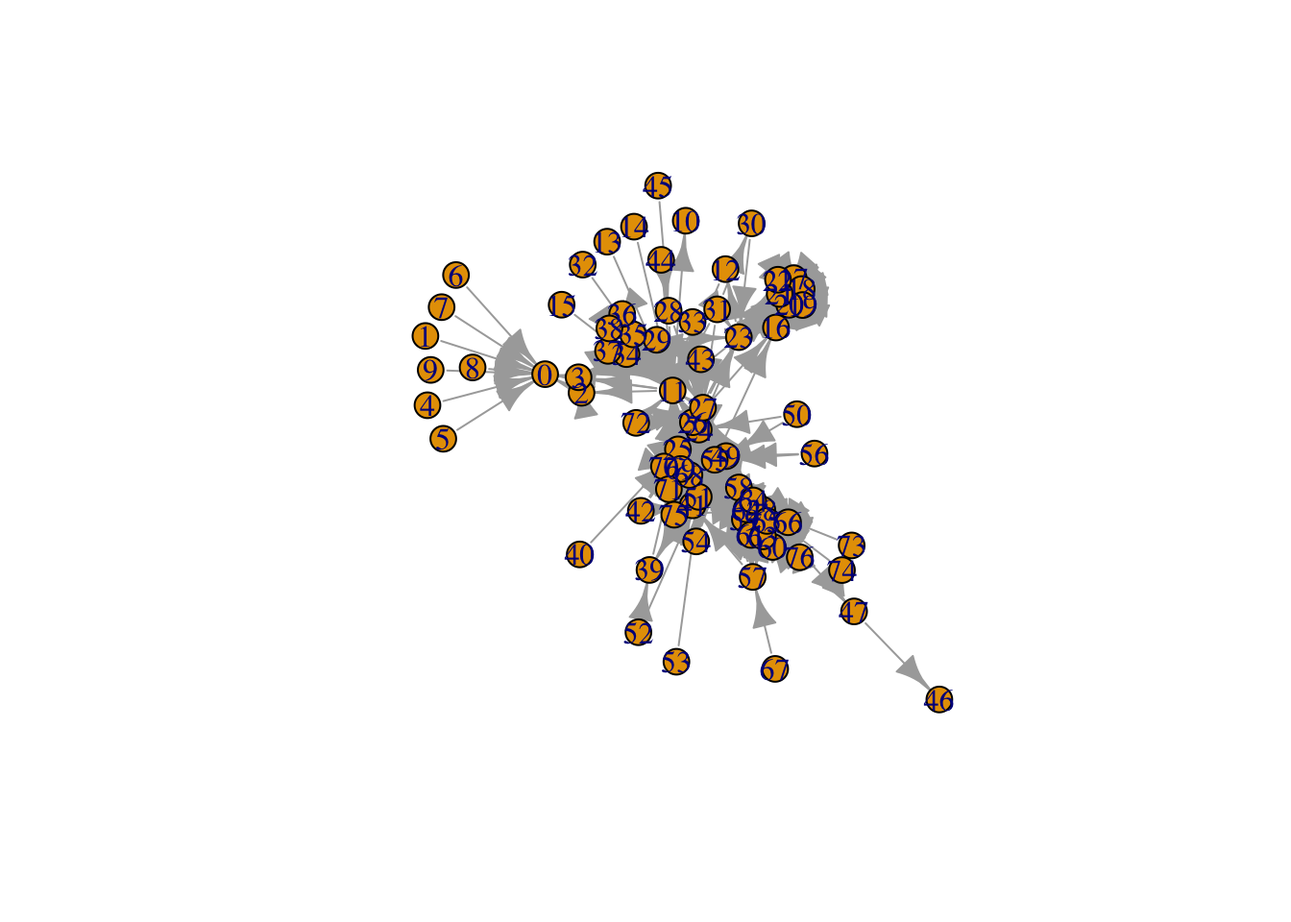
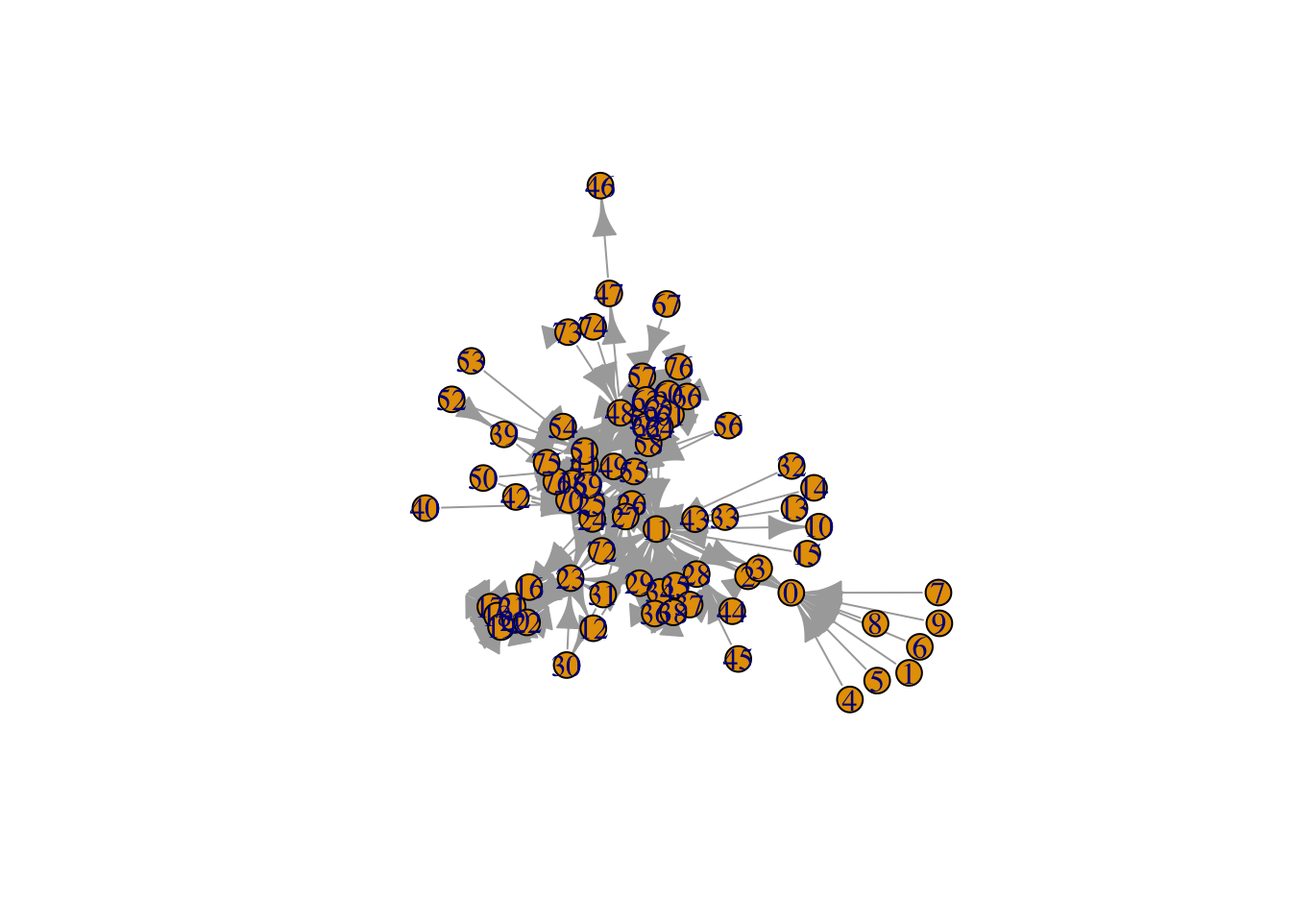
spruce graph modification

Changed region(s): [[0.3125, 0.1875, 0.75, 0.7812], [0.7188, 0.75, 0.75, 0.7812], [0.3125, 0.5312, 0.3438, 0.5625]]

diff --git a/docs/sigma.html b/docs/sigma.html
@@ -24,7 +24,7 @@
 <meta name="author" content="Robert Wiederstein" />
 
 
-<meta name="date" content="2021-01-01" />
+<meta name="date" content="2021-01-02" />
 
   <meta name="viewport" content="width=device-width, initial-scale=1" />
   <meta name="apple-mobile-web-app-capable" content="yes" />
@@ -231,33 +231,33 @@ code span.wa { color: #60a0b0; font-weight: bold; font-style: italic; } /* Warni
             <section class="normal" id="section-">
 <div id="sigma" class="section level1">
 <h1><span class="header-section-number">Chapter 5</span> Sigma JS</h1>
-<div class="sourceCode" id="cb22"><pre class="sourceCode r"><code class="sourceCode r"><a class="sourceLine" id="cb22-1" data-line-number="1"><span class="co">#example for ?sigmajs::sigmajs</span></a>
-<a class="sourceLine" id="cb22-2" data-line-number="2"><span class="kw">library</span>(sigmajs)</a>
-<a class="sourceLine" id="cb22-3" data-line-number="3">nodes &lt;-<span class="st"> </span><span class="kw">sg_make_nodes</span>()</a>
-<a class="sourceLine" id="cb22-4" data-line-number="4">edges &lt;-<span class="st"> </span><span class="kw">sg_make_edges</span>(nodes)</a>
-<a class="sourceLine" id="cb22-5" data-line-number="5"></a>
-<a class="sourceLine" id="cb22-6" data-line-number="6"><span class="kw">sigmajs</span>() <span class="op">%&gt;%</span></a>
-<a class="sourceLine" id="cb22-7" data-line-number="7"><span class="st">  </span><span class="kw">sg_nodes</span>(nodes, id, label, size, color) <span class="op">%&gt;%</span></a>
-<a class="sourceLine" id="cb22-8" data-line-number="8"><span class="st">  </span><span class="kw">sg_edges</span>(edges, id, source, target) </a></code></pre></div>
-<div id="htmlwidget-a55ea9fda5e7adfd888a" style="width:100%;height:480px;" class="sigmajs html-widget"></div>
-<script type="application/json" data-for="htmlwidget-a55ea9fda5e7adfd888a">{"x":{"events":[],"kill":false,"data":{"nodes":[{"id":"1","label":"T46","size":"3","color":"#B1E2A3","x":"18.951111","y":"18.856069"},{"id":"2","label":"Z78","size":"3","color":"#A5DBA3","x":"14.366178","y":" 3.782634"},{"id":"3","label":"N66","size":"2","color":"#9AD4A4","x":"11.995357","y":"19.255828"},{"id":"4","label":"M91","size":"2","color":"#76BA99","x":" 1.144448","y":"19.025454"},{"id":"5","label":"S71","size":"3","color":"#48998A","x":"11.368237","y":" 2.127250"},{"id":"6","label":"H86","size":"5","color":"#2D7E7E","x":"15.062278","y":"10.114737"},{"id":"7","label":"A79","size":"2","color":"#236B76","x":"17.399423","y":"11.214018"},{"id":"8","label":"O41","size":"4","color":"#1C686F","x":"13.583136","y":"14.873806"},{"id":"9","label":"U47","size":"3","color":"#20986D","x":" 4.242219","y":"11.650735"},{"id":"10","label":"L64","size":"3","color":"#24C96B","x":"10.563888","y":" 5.481870"}],"edges":[{"id":"1","source":"1","target":"4"},{"id":"2","source":"2","target":"9"},{"id":"3","source":"3","target":"8"},{"id":"4","source":"4","target":"1"},{"id":"5","source":"5","target":"10"},{"id":"6","source":"6","target":"8"},{"id":"7","source":"7","target":"6"},{"id":"8","source":"8","target":"5"},{"id":"9","source":"9","target":"8"},{"id":"10","source":"10","target":"10"}]},"type":null,"button":[],"buttonevent":[],"crosstalk":{"crosstalk_key":null,"crosstalk_group":null}},"evals":[],"jsHooks":[]}</script>
+<div class="sourceCode" id="cb23"><pre class="sourceCode r"><code class="sourceCode r"><a class="sourceLine" id="cb23-1" data-line-number="1"><span class="co">#example for ?sigmajs::sigmajs</span></a>
+<a class="sourceLine" id="cb23-2" data-line-number="2"><span class="kw">library</span>(sigmajs)</a>
+<a class="sourceLine" id="cb23-3" data-line-number="3">nodes &lt;-<span class="st"> </span><span class="kw">sg_make_nodes</span>()</a>
+<a class="sourceLine" id="cb23-4" data-line-number="4">edges &lt;-<span class="st"> </span><span class="kw">sg_make_edges</span>(nodes)</a>
+<a class="sourceLine" id="cb23-5" data-line-number="5"></a>
+<a class="sourceLine" id="cb23-6" data-line-number="6"><span class="kw">sigmajs</span>() <span class="op">%&gt;%</span></a>
+<a class="sourceLine" id="cb23-7" data-line-number="7"><span class="st">  </span><span class="kw">sg_nodes</span>(nodes, id, label, size, color) <span class="op">%&gt;%</span></a>
+<a class="sourceLine" id="cb23-8" data-line-number="8"><span class="st">  </span><span class="kw">sg_edges</span>(edges, id, source, target) </a></code></pre></div>
+<div id="htmlwidget-a87e93fe56444ee6964c" style="width:100%;height:480px;" class="sigmajs html-widget"></div>
+<script type="application/json" data-for="htmlwidget-a87e93fe56444ee6964c">{"x":{"events":[],"kill":false,"data":{"nodes":[{"id":"1","label":"G85","size":"3","color":"#B1E2A3","x":"18.427502","y":"12.729342"},{"id":"2","label":"J62","size":"5","color":"#A5DBA3","x":" 6.620737","y":" 5.075378"},{"id":"3","label":"B2","size":"5","color":"#9AD4A4","x":"12.702828","y":"11.656756"},{"id":"4","label":"N40","size":"2","color":"#76BA99","x":" 5.872652","y":" 7.199296"},{"id":"5","label":"U99","size":"5","color":"#48998A","x":" 7.281247","y":"16.450537"},{"id":"6","label":"R70","size":"2","color":"#2D7E7E","x":"10.225886","y":" 4.871516"},{"id":"7","label":"B54","size":"4","color":"#236B76","x":"10.486132","y":" 2.034399"},{"id":"8","label":"D56","size":"3","color":"#1C686F","x":" 8.792583","y":" 6.324650"},{"id":"9","label":"X76","size":"5","color":"#20986D","x":"10.893830","y":" 7.400337"},{"id":"10","label":"D30","size":"4","color":"#24C96B","x":"12.186238","y":"10.431737"}],"edges":[{"id":"1","source":"1","target":"2"},{"id":"2","source":"2","target":"2"},{"id":"3","source":"3","target":"10"},{"id":"4","source":"4","target":"5"},{"id":"5","source":"5","target":"9"},{"id":"6","source":"6","target":"9"},{"id":"7","source":"7","target":"7"},{"id":"8","source":"8","target":"1"},{"id":"9","source":"9","target":"1"},{"id":"10","source":"10","target":"8"}]},"type":null,"button":[],"buttonevent":[],"crosstalk":{"crosstalk_key":null,"crosstalk_group":null}},"evals":[],"jsHooks":[]}</script>
 <div id="stop-light-1" class="section level2">
 <h2><span class="header-section-number">5.1</span> Stop light</h2>
-<div class="sourceCode" id="cb23"><pre class="sourceCode r"><code class="sourceCode r"><a class="sourceLine" id="cb23-1" data-line-number="1"><span class="kw">library</span>(sigmajs)</a>
-<a class="sourceLine" id="cb23-2" data-line-number="2"><span class="kw">library</span>(tibble)</a>
-<a class="sourceLine" id="cb23-3" data-line-number="3">edges &lt;-<span class="st"> </span><span class="kw">tibble</span>(<span class="dt">id =</span> <span class="kw">rep</span>(<span class="st">&quot;1&quot;</span>, <span class="dv">3</span>),</a>
-<a class="sourceLine" id="cb23-4" data-line-number="4">                    <span class="dt">source =</span> <span class="kw">rep</span>(<span class="st">&quot;1&quot;</span>, <span class="dv">3</span>),</a>
-<a class="sourceLine" id="cb23-5" data-line-number="5">                    <span class="dt">target =</span> <span class="kw">as.character</span>(<span class="kw">c</span>(<span class="dv">2</span><span class="op">:</span><span class="dv">4</span>))</a>
-<a class="sourceLine" id="cb23-6" data-line-number="6">                    )</a>
-<a class="sourceLine" id="cb23-7" data-line-number="7">nodes &lt;-<span class="st"> </span><span class="kw">tibble</span>(<span class="dt">id =</span> <span class="kw">as.character</span>(<span class="dv">1</span><span class="op">:</span><span class="dv">4</span>),</a>
-<a class="sourceLine" id="cb23-8" data-line-number="8">                    <span class="dt">label =</span> <span class="kw">c</span>(<span class="st">&quot;light&quot;</span>, <span class="st">&quot;red&quot;</span>, <span class="st">&quot;yellow&quot;</span>, <span class="st">&quot;green&quot;</span>),</a>
-<a class="sourceLine" id="cb23-9" data-line-number="9">                    <span class="dt">time =</span> <span class="kw">c</span>(<span class="dv">100</span>, <span class="dv">30</span>, <span class="dv">10</span>, <span class="dv">20</span>)</a>
-<a class="sourceLine" id="cb23-10" data-line-number="10">)</a>
-<a class="sourceLine" id="cb23-11" data-line-number="11"><span class="kw">sigmajs</span>() <span class="op">%&gt;%</span></a>
-<a class="sourceLine" id="cb23-12" data-line-number="12"><span class="st">  </span><span class="kw">sg_nodes</span>(nodes, id, label, time) <span class="op">%&gt;%</span></a>
-<a class="sourceLine" id="cb23-13" data-line-number="13"><span class="st">  </span><span class="kw">sg_edges</span>(edges, id, source, target) </a></code></pre></div>
-<div id="htmlwidget-c22e6412c02dd696bd48" style="width:100%;height:480px;" class="sigmajs html-widget"></div>
-<script type="application/json" data-for="htmlwidget-c22e6412c02dd696bd48">{"x":{"events":[],"kill":false,"data":{"nodes":[{"id":"1","label":"light","time":"100","x":"15.56763","y":" 2.532777"},{"id":"2","label":"red","time":" 30","x":"15.18042","y":"19.811249"},{"id":"3","label":"yellow","time":" 10","x":"15.97120","y":" 9.578772"},{"id":"4","label":"green","time":" 20","x":" 5.75355","y":" 2.801252"}],"edges":[{"id":"1","source":"1","target":"2"},{"id":"1","source":"1","target":"3"},{"id":"1","source":"1","target":"4"}]},"type":null,"button":[],"buttonevent":[],"crosstalk":{"crosstalk_key":null,"crosstalk_group":null}},"evals":[],"jsHooks":[]}</script>
+<div class="sourceCode" id="cb24"><pre class="sourceCode r"><code class="sourceCode r"><a class="sourceLine" id="cb24-1" data-line-number="1"><span class="kw">library</span>(sigmajs)</a>
+<a class="sourceLine" id="cb24-2" data-line-number="2"><span class="kw">library</span>(tibble)</a>
+<a class="sourceLine" id="cb24-3" data-line-number="3">edges &lt;-<span class="st"> </span><span class="kw">tibble</span>(<span class="dt">id =</span> <span class="kw">rep</span>(<span class="st">&quot;1&quot;</span>, <span class="dv">3</span>),</a>
+<a class="sourceLine" id="cb24-4" data-line-number="4">                    <span class="dt">source =</span> <span class="kw">rep</span>(<span class="st">&quot;1&quot;</span>, <span class="dv">3</span>),</a>
+<a class="sourceLine" id="cb24-5" data-line-number="5">                    <span class="dt">target =</span> <span class="kw">as.character</span>(<span class="kw">c</span>(<span class="dv">2</span><span class="op">:</span><span class="dv">4</span>))</a>
+<a class="sourceLine" id="cb24-6" data-line-number="6">                    )</a>
+<a class="sourceLine" id="cb24-7" data-line-number="7">nodes &lt;-<span class="st"> </span><span class="kw">tibble</span>(<span class="dt">id =</span> <span class="kw">as.character</span>(<span class="dv">1</span><span class="op">:</span><span class="dv">4</span>),</a>
+<a class="sourceLine" id="cb24-8" data-line-number="8">                    <span class="dt">label =</span> <span class="kw">c</span>(<span class="st">&quot;light&quot;</span>, <span class="st">&quot;red&quot;</span>, <span class="st">&quot;yellow&quot;</span>, <span class="st">&quot;green&quot;</span>),</a>
+<a class="sourceLine" id="cb24-9" data-line-number="9">                    <span class="dt">time =</span> <span class="kw">c</span>(<span class="dv">100</span>, <span class="dv">30</span>, <span class="dv">10</span>, <span class="dv">20</span>)</a>
+<a class="sourceLine" id="cb24-10" data-line-number="10">)</a>
+<a class="sourceLine" id="cb24-11" data-line-number="11"><span class="kw">sigmajs</span>() <span class="op">%&gt;%</span></a>
+<a class="sourceLine" id="cb24-12" data-line-number="12"><span class="st">  </span><span class="kw">sg_nodes</span>(nodes, id, label, time) <span class="op">%&gt;%</span></a>
+<a class="sourceLine" id="cb24-13" data-line-number="13"><span class="st">  </span><span class="kw">sg_edges</span>(edges, id, source, target) </a></code></pre></div>
+<div id="htmlwidget-b4dea36a34ccf838ecbd" style="width:100%;height:480px;" class="sigmajs html-widget"></div>
+<script type="application/json" data-for="htmlwidget-b4dea36a34ccf838ecbd">{"x":{"events":[],"kill":false,"data":{"nodes":[{"id":"1","label":"light","time":"100","x":"15.084040","y":"13.821508"},{"id":"2","label":"red","time":" 30","x":" 4.338767","y":" 9.755278"},{"id":"3","label":"yellow","time":" 10","x":" 1.010033","y":" 4.684218"},{"id":"4","label":"green","time":" 20","x":"11.338150","y":" 7.339076"}],"edges":[{"id":"1","source":"1","target":"2"},{"id":"1","source":"1","target":"3"},{"id":"1","source":"1","target":"4"}]},"type":null,"button":[],"buttonevent":[],"crosstalk":{"crosstalk_key":null,"crosstalk_group":null}},"evals":[],"jsHooks":[]}</script>
 
 </div>
 </div>

diff --git a/docs/first-graphs.html b/docs/first-graphs.html
@@ -24,7 +24,7 @@
 <meta name="author" content="Robert Wiederstein" />
 
 
-<meta name="date" content="2021-01-01" />
+<meta name="date" content="2021-01-02" />
 
   <meta name="viewport" content="width=device-width, initial-scale=1" />
   <meta name="apple-mobile-web-app-capable" content="yes" />
@@ -233,13 +233,13 @@ code span.wa { color: #60a0b0; font-weight: bold; font-style: italic; } /* Warni
 <h1><span class="header-section-number">Chapter 4</span> First Graphs</h1>
 <div id="les-miserable-dataset" class="section level2">
 <h2><span class="header-section-number">4.1</span> Les Miserable Dataset</h2>
-<div class="sourceCode" id="cb17"><pre class="sourceCode r"><code class="sourceCode r"><a class="sourceLine" id="cb17-1" data-line-number="1"><span class="co"># Load igraph</span></a>
-<a class="sourceLine" id="cb17-2" data-line-number="2"><span class="kw">library</span>(igraph)</a>
-<a class="sourceLine" id="cb17-3" data-line-number="3"></a>
-<a class="sourceLine" id="cb17-4" data-line-number="4"><span class="co"># Read data</span></a>
-<a class="sourceLine" id="cb17-5" data-line-number="5">lesmis &lt;-<span class="st"> </span><span class="kw">read.csv</span>(<span class="st">&quot;https://raw.githubusercontent.com/meefen/sna-ed/master/assets/lesmis/lesmis.csv&quot;</span>)</a>
-<a class="sourceLine" id="cb17-6" data-line-number="6"><span class="co"># check the head (first 6 rows) of the dataset</span></a>
-<a class="sourceLine" id="cb17-7" data-line-number="7"><span class="kw">head</span>(lesmis)</a></code></pre></div>
+<div class="sourceCode" id="cb18"><pre class="sourceCode r"><code class="sourceCode r"><a class="sourceLine" id="cb18-1" data-line-number="1"><span class="co"># Load igraph</span></a>
+<a class="sourceLine" id="cb18-2" data-line-number="2"><span class="kw">library</span>(igraph)</a>
+<a class="sourceLine" id="cb18-3" data-line-number="3"></a>
+<a class="sourceLine" id="cb18-4" data-line-number="4"><span class="co"># Read data</span></a>
+<a class="sourceLine" id="cb18-5" data-line-number="5">lesmis &lt;-<span class="st"> </span><span class="kw">read.csv</span>(<span class="st">&quot;https://raw.githubusercontent.com/meefen/sna-ed/master/assets/lesmis/lesmis.csv&quot;</span>)</a>
+<a class="sourceLine" id="cb18-6" data-line-number="6"><span class="co"># check the head (first 6 rows) of the dataset</span></a>
+<a class="sourceLine" id="cb18-7" data-line-number="7"><span class="kw">head</span>(lesmis)</a></code></pre></div>
 <pre><code>##   Source Target weight
 ## 1      1      0      1
 ## 2      2      0      8
@@ -247,33 +247,33 @@ code span.wa { color: #60a0b0; font-weight: bold; font-style: italic; } /* Warni
 ## 4      3      2      6
 ## 5      4      0      1
 ## 6      5      0      1</code></pre>
-<div class="sourceCode" id="cb19"><pre class="sourceCode r"><code class="sourceCode r"><a class="sourceLine" id="cb19-1" data-line-number="1"><span class="co"># Create a graph using the graph_from_data_frame function</span></a>
-<a class="sourceLine" id="cb19-2" data-line-number="2">g &lt;-<span class="st"> </span><span class="kw">graph_from_data_frame</span>(lesmis)</a>
-<a class="sourceLine" id="cb19-3" data-line-number="3"></a>
-<a class="sourceLine" id="cb19-4" data-line-number="4"><span class="co"># Plot the graph</span></a>
-<a class="sourceLine" id="cb19-5" data-line-number="5"><span class="kw">plot</span>(g)</a></code></pre></div>
+<div class="sourceCode" id="cb20"><pre class="sourceCode r"><code class="sourceCode r"><a class="sourceLine" id="cb20-1" data-line-number="1"><span class="co"># Create a graph using the graph_from_data_frame function</span></a>
+<a class="sourceLine" id="cb20-2" data-line-number="2">g &lt;-<span class="st"> </span><span class="kw">graph_from_data_frame</span>(lesmis)</a>
+<a class="sourceLine" id="cb20-3" data-line-number="3"></a>
+<a class="sourceLine" id="cb20-4" data-line-number="4"><span class="co"># Plot the graph</span></a>
+<a class="sourceLine" id="cb20-5" data-line-number="5"><span class="kw">plot</span>(g)</a></code></pre></div>
 <p><img src="book_network_analysis_in_R_files/figure-html/unnamed-chunk-6-1.png" width="672" /></p>
-<div class="sourceCode" id="cb20"><pre class="sourceCode r"><code class="sourceCode r"><a class="sourceLine" id="cb20-1" data-line-number="1"><span class="co"># make the graph a little prettier</span></a>
-<a class="sourceLine" id="cb20-2" data-line-number="2"><span class="kw">plot</span>(g, <span class="dt">edge.arrow.size=</span>.<span class="dv">2</span>, <span class="dt">vertex.label=</span><span class="ot">NA</span>, <span class="dt">vertex.size=</span><span class="dv">8</span>)</a></code></pre></div>
+<div class="sourceCode" id="cb21"><pre class="sourceCode r"><code class="sourceCode r"><a class="sourceLine" id="cb21-1" data-line-number="1"><span class="co"># make the graph a little prettier</span></a>
+<a class="sourceLine" id="cb21-2" data-line-number="2"><span class="kw">plot</span>(g, <span class="dt">edge.arrow.size=</span>.<span class="dv">2</span>, <span class="dt">vertex.label=</span><span class="ot">NA</span>, <span class="dt">vertex.size=</span><span class="dv">8</span>)</a></code></pre></div>
 <p><img src="book_network_analysis_in_R_files/figure-html/unnamed-chunk-6-2.png" width="672" /></p>
 </div>
 <div id="stop-light" class="section level2">
 <h2><span class="header-section-number">4.2</span> Stop light</h2>
-<div class="sourceCode" id="cb21"><pre class="sourceCode r"><code class="sourceCode r"><a class="sourceLine" id="cb21-1" data-line-number="1"><span class="kw">library</span>(sigmajs)</a>
-<a class="sourceLine" id="cb21-2" data-line-number="2"><span class="kw">library</span>(tibble)</a>
-<a class="sourceLine" id="cb21-3" data-line-number="3">edges &lt;-<span class="st"> </span><span class="kw">tibble</span>(<span class="dt">id =</span> <span class="kw">rep</span>(<span class="st">&quot;1&quot;</span>, <span class="dv">3</span>),</a>
-<a class="sourceLine" id="cb21-4" data-line-number="4">                    <span class="dt">source =</span> <span class="kw">rep</span>(<span class="st">&quot;1&quot;</span>, <span class="dv">3</span>),</a>
-<a class="sourceLine" id="cb21-5" data-line-number="5">                    <span class="dt">target =</span> <span class="kw">as.character</span>(<span class="kw">c</span>(<span class="dv">2</span><span class="op">:</span><span class="dv">4</span>))</a>
-<a class="sourceLine" id="cb21-6" data-line-number="6">                    )</a>
-<a class="sourceLine" id="cb21-7" data-line-number="7">nodes &lt;-<span class="st"> </span><span class="kw">tibble</span>(<span class="dt">id =</span> <span class="kw">as.character</span>(<span class="dv">1</span><span class="op">:</span><span class="dv">4</span>),</a>
-<a class="sourceLine" id="cb21-8" data-line-number="8">                    <span class="dt">label =</span> <span class="kw">c</span>(<span class="st">&quot;light&quot;</span>, <span class="st">&quot;red&quot;</span>, <span class="st">&quot;yellow&quot;</span>, <span class="st">&quot;green&quot;</span>),</a>
-<a class="sourceLine" id="cb21-9" data-line-number="9">                    <span class="dt">time =</span> <span class="kw">c</span>(<span class="dv">100</span>, <span class="dv">30</span>, <span class="dv">10</span>, <span class="dv">20</span>)</a>
-<a class="sourceLine" id="cb21-10" data-line-number="10">)</a>
-<a class="sourceLine" id="cb21-11" data-line-number="11"><span class="kw">sigmajs</span>() <span class="op">%&gt;%</span></a>
-<a class="sourceLine" id="cb21-12" data-line-number="12"><span class="st">  </span><span class="kw">sg_nodes</span>(nodes, id, label, time) <span class="op">%&gt;%</span></a>
-<a class="sourceLine" id="cb21-13" data-line-number="13"><span class="st">  </span><span class="kw">sg_edges</span>(edges, id, source, target) </a></code></pre></div>
-<div id="htmlwidget-fdbf3df70ad90aa292bc" style="width:100%;height:480px;" class="sigmajs html-widget"></div>
-<script type="application/json" data-for="htmlwidget-fdbf3df70ad90aa292bc">{"x":{"events":[],"kill":false,"data":{"nodes":[{"id":"1","label":"light","time":"100","x":"10.102487","y":" 6.056063"},{"id":"2","label":"red","time":" 30","x":"17.228939","y":" 7.222547"},{"id":"3","label":"yellow","time":" 10","x":"12.205038","y":" 1.266195"},{"id":"4","label":"green","time":" 20","x":" 5.380527","y":"17.821864"}],"edges":[{"id":"1","source":"1","target":"2"},{"id":"1","source":"1","target":"3"},{"id":"1","source":"1","target":"4"}]},"type":null,"button":[],"buttonevent":[],"crosstalk":{"crosstalk_key":null,"crosstalk_group":null}},"evals":[],"jsHooks":[]}</script>
+<div class="sourceCode" id="cb22"><pre class="sourceCode r"><code class="sourceCode r"><a class="sourceLine" id="cb22-1" data-line-number="1"><span class="kw">library</span>(sigmajs)</a>
+<a class="sourceLine" id="cb22-2" data-line-number="2"><span class="kw">library</span>(tibble)</a>
+<a class="sourceLine" id="cb22-3" data-line-number="3">edges &lt;-<span class="st"> </span><span class="kw">tibble</span>(<span class="dt">id =</span> <span class="kw">rep</span>(<span class="st">&quot;1&quot;</span>, <span class="dv">3</span>),</a>
+<a class="sourceLine" id="cb22-4" data-line-number="4">                    <span class="dt">source =</span> <span class="kw">rep</span>(<span class="st">&quot;1&quot;</span>, <span class="dv">3</span>),</a>
+<a class="sourceLine" id="cb22-5" data-line-number="5">                    <span class="dt">target =</span> <span class="kw">as.character</span>(<span class="kw">c</span>(<span class="dv">2</span><span class="op">:</span><span class="dv">4</span>))</a>
+<a class="sourceLine" id="cb22-6" data-line-number="6">                    )</a>
+<a class="sourceLine" id="cb22-7" data-line-number="7">nodes &lt;-<span class="st"> </span><span class="kw">tibble</span>(<span class="dt">id =</span> <span class="kw">as.character</span>(<span class="dv">1</span><span class="op">:</span><span class="dv">4</span>),</a>
+<a class="sourceLine" id="cb22-8" data-line-number="8">                    <span class="dt">label =</span> <span class="kw">c</span>(<span class="st">&quot;light&quot;</span>, <span class="st">&quot;red&quot;</span>, <span class="st">&quot;yellow&quot;</span>, <span class="st">&quot;green&quot;</span>),</a>
+<a class="sourceLine" id="cb22-9" data-line-number="9">                    <span class="dt">time =</span> <span class="kw">c</span>(<span class="dv">100</span>, <span class="dv">30</span>, <span class="dv">10</span>, <span class="dv">20</span>)</a>
+<a class="sourceLine" id="cb22-10" data-line-number="10">)</a>
+<a class="sourceLine" id="cb22-11" data-line-number="11"><span class="kw">sigmajs</span>() <span class="op">%&gt;%</span></a>
+<a class="sourceLine" id="cb22-12" data-line-number="12"><span class="st">  </span><span class="kw">sg_nodes</span>(nodes, id, label, time) <span class="op">%&gt;%</span></a>
+<a class="sourceLine" id="cb22-13" data-line-number="13"><span class="st">  </span><span class="kw">sg_edges</span>(edges, id, source, target) </a></code></pre></div>
+<div id="htmlwidget-5bed3a427648face71d6" style="width:100%;height:480px;" class="sigmajs html-widget"></div>
+<script type="application/json" data-for="htmlwidget-5bed3a427648face71d6">{"x":{"events":[],"kill":false,"data":{"nodes":[{"id":"1","label":"light","time":"100","x":"13.124030","y":" 9.973826"},{"id":"2","label":"red","time":" 30","x":"16.925808","y":"12.632196"},{"id":"3","label":"yellow","time":" 10","x":" 3.482066","y":"10.215155"},{"id":"4","label":"green","time":" 20","x":" 5.839136","y":"13.196983"}],"edges":[{"id":"1","source":"1","target":"2"},{"id":"1","source":"1","target":"3"},{"id":"1","source":"1","target":"4"}]},"type":null,"button":[],"buttonevent":[],"crosstalk":{"crosstalk_key":null,"crosstalk_group":null}},"evals":[],"jsHooks":[]}</script>
 </div>
 <div id="les-miserabe" class="section level2">
 <h2><span class="header-section-number">4.3</span> Les Miserabe</h2>

diff --git a/docs/modification.html b/docs/modification.html
@@ -24,7 +24,7 @@
 <meta name="author" content="Robert Wiederstein" />
 
 
-<meta name="date" content="2021-01-01" />
+<meta name="date" content="2021-01-02" />
 
   <meta name="viewport" content="width=device-width, initial-scale=1" />
   <meta name="apple-mobile-web-app-capable" content="yes" />
@@ -243,10 +243,10 @@ code span.wa { color: #60a0b0; font-weight: bold; font-style: italic; } /* Warni
 ## [3,] 1 . . 1 1
 ## [4,] . 1 1 . 1
 ## [5,] . . 1 1 .</code></pre>
-<div class="sourceCode" id="cb5"><pre class="sourceCode r"><code class="sourceCode r"><a class="sourceLine" id="cb5-1" data-line-number="1"><span class="co">#data structure - row</span></a>
+<div class="sourceCode" id="cb5"><pre class="sourceCode r"><code class="sourceCode r"><a class="sourceLine" id="cb5-1" data-line-number="1"><span class="co">#data structure - row 1</span></a>
 <a class="sourceLine" id="cb5-2" data-line-number="2">g1[<span class="dv">1</span>, ]</a></code></pre></div>
 <pre><code>## [1] 0 1 1 0 0</code></pre>
-<div class="sourceCode" id="cb7"><pre class="sourceCode r"><code class="sourceCode r"><a class="sourceLine" id="cb7-1" data-line-number="1"><span class="co">#data structure - col</span></a>
+<div class="sourceCode" id="cb7"><pre class="sourceCode r"><code class="sourceCode r"><a class="sourceLine" id="cb7-1" data-line-number="1"><span class="co">#data structure - col 2</span></a>
 <a class="sourceLine" id="cb7-2" data-line-number="2">g1[, <span class="dv">2</span>]</a></code></pre></div>
 <pre><code>## [1] 1 0 0 1 0</code></pre>
 <div class="sourceCode" id="cb9"><pre class="sourceCode r"><code class="sourceCode r"><a class="sourceLine" id="cb9-1" data-line-number="1"><span class="kw">par</span>(<span class="dt">mfrow =</span> <span class="kw">c</span>(<span class="dv">1</span>, <span class="dv">2</span>))</a>
@@ -256,22 +256,21 @@ code span.wa { color: #60a0b0; font-weight: bold; font-style: italic; } /* Warni
 <a class="sourceLine" id="cb9-5" data-line-number="5">     <span class="dt">vertex.color =</span> <span class="dv">1</span>, <span class="co">#default</span></a>
 <a class="sourceLine" id="cb9-6" data-line-number="6">     <span class="dt">main =</span> <span class="st">&quot;Our House&quot;</span></a>
 <a class="sourceLine" id="cb9-7" data-line-number="7">     )</a>
-<a class="sourceLine" id="cb9-8" data-line-number="8"><span class="co">#Name the rooms</span></a>
-<a class="sourceLine" id="cb9-9" data-line-number="9"><span class="co">#vertex_attr(graph, name, index = V(graph)) &lt;- value</span></a>
-<a class="sourceLine" id="cb9-10" data-line-number="10"><span class="kw">vertex_attr</span>(g1, <span class="dt">name =</span> <span class="st">&quot;rooms&quot;</span>) &lt;-<span class="st"> </span><span class="kw">c</span>(<span class="st">&quot;LR&quot;</span>, <span class="st">&quot;FR&quot;</span>, <span class="st">&quot;BR&quot;</span>, <span class="st">&quot;DR&quot;</span>, <span class="st">&quot;Garage&quot;</span>)</a>
-<a class="sourceLine" id="cb9-11" data-line-number="11"><span class="kw">plot</span>(g1,</a>
-<a class="sourceLine" id="cb9-12" data-line-number="12">     <span class="dt">vertex.size =</span> <span class="dv">30</span>,</a>
-<a class="sourceLine" id="cb9-13" data-line-number="13">     <span class="dt">vertex.color =</span> <span class="dv">1</span>,</a>
-<a class="sourceLine" id="cb9-14" data-line-number="14">     <span class="dt">vertex.label =</span> <span class="kw">V</span>(g1)<span class="op">$</span>rooms,</a>
-<a class="sourceLine" id="cb9-15" data-line-number="15">     <span class="dt">main =</span> <span class="st">&quot;Has Many Rooms&quot;</span></a>
-<a class="sourceLine" id="cb9-16" data-line-number="16">     )</a></code></pre></div>
+<a class="sourceLine" id="cb9-8" data-line-number="8"><span class="co">#assign attribute &amp; label nodes</span></a>
+<a class="sourceLine" id="cb9-9" data-line-number="9"><span class="kw">vertex_attr</span>(g1, <span class="dt">name =</span> <span class="st">&quot;rooms&quot;</span>) &lt;-<span class="st"> </span><span class="kw">c</span>(<span class="st">&quot;LR&quot;</span>, <span class="st">&quot;FR&quot;</span>, <span class="st">&quot;BR&quot;</span>, <span class="st">&quot;DR&quot;</span>, <span class="st">&quot;Garage&quot;</span>)</a>
+<a class="sourceLine" id="cb9-10" data-line-number="10"><span class="kw">plot</span>(g1,</a>
+<a class="sourceLine" id="cb9-11" data-line-number="11">     <span class="dt">vertex.size =</span> <span class="dv">30</span>,</a>
+<a class="sourceLine" id="cb9-12" data-line-number="12">     <span class="dt">vertex.color =</span> <span class="dv">1</span>,</a>
+<a class="sourceLine" id="cb9-13" data-line-number="13">     <span class="dt">vertex.label =</span> <span class="kw">V</span>(g1)<span class="op">$</span>rooms,</a>
+<a class="sourceLine" id="cb9-14" data-line-number="14">     <span class="dt">main =</span> <span class="st">&quot;Has Many Rooms&quot;</span></a>
+<a class="sourceLine" id="cb9-15" data-line-number="15">     )</a></code></pre></div>
 <p><img src="book_network_analysis_in_R_files/figure-html/load-a-house-plot-1.png" width="672" /></p>
 </div>
 <div id="get-edges" class="section level2">
 <h2><span class="header-section-number">3.2</span> Get Edges</h2>
 <div class="sourceCode" id="cb10"><pre class="sourceCode r"><code class="sourceCode r"><a class="sourceLine" id="cb10-1" data-line-number="1"><span class="co"># &quot;E&quot; is for edges</span></a>
 <a class="sourceLine" id="cb10-2" data-line-number="2"><span class="kw">E</span>(g1)</a></code></pre></div>
-<pre><code>## + 6/6 edges from 17fead4:
+<pre><code>## + 6/6 edges from fdaf69a:
 ## [1] 1--2 1--3 2--4 3--4 3--5 4--5</code></pre>
 <div class="sourceCode" id="cb12"><pre class="sourceCode r"><code class="sourceCode r"><a class="sourceLine" id="cb12-1" data-line-number="1"><span class="kw">edge_attr</span>(g1, <span class="dt">name =</span> <span class="st">&quot;services&quot;</span>) &lt;-<span class="st"> </span><span class="kw">c</span>(<span class="st">&quot;electric&quot;</span>, <span class="st">&quot;air_cond&quot;</span>, <span class="st">&quot;gas&quot;</span>, <span class="st">&quot;cable&quot;</span>, <span class="st">&quot;wifi&quot;</span>, <span class="st">&quot;water&quot;</span>)</a>
 <a class="sourceLine" id="cb12-2" data-line-number="2"><span class="kw">par</span>(<span class="dt">mfrow =</span> <span class="kw">c</span>(<span class="dv">1</span>, <span class="dv">2</span>))</a>
@@ -288,24 +287,28 @@ code span.wa { color: #60a0b0; font-weight: bold; font-style: italic; } /* Warni
 <a class="sourceLine" id="cb12-13" data-line-number="13">     <span class="dt">edge.label =</span> <span class="kw">E</span>(g1)<span class="op">$</span>services,</a>
 <a class="sourceLine" id="cb12-14" data-line-number="14">     <span class="dt">main =</span> <span class="st">&quot;Is Connected&quot;</span></a>
 <a class="sourceLine" id="cb12-15" data-line-number="15">     )</a></code></pre></div>
-<p><img src="book_network_analysis_in_R_files/figure-html/get-edges-1.png" width="672" /></p>
+<p><img src="book_network_analysis_in_R_files/figure-html/get-edges-for-house-1.png" width="672" /></p>
 </div>
 <div id="get-vertices" class="section level2">
 <h2><span class="header-section-number">3.3</span> Get Vertices</h2>
 <div class="sourceCode" id="cb13"><pre class="sourceCode r"><code class="sourceCode r"><a class="sourceLine" id="cb13-1" data-line-number="1"><span class="co"># &quot;V&quot; is for vertices</span></a>
 <a class="sourceLine" id="cb13-2" data-line-number="2"><span class="kw">V</span>(g1)</a></code></pre></div>
-<pre><code>## + 5/5 vertices, from 17fead4:
+<pre><code>## + 5/5 vertices, from fdaf69a:
 ## [1] 1 2 3 4 5</code></pre>
 <div id="add-vertices-attribute" class="section level3">
 <h3><span class="header-section-number">3.3.1</span> Add vertices attribute</h3>
-<div class="sourceCode" id="cb15"><pre class="sourceCode r"><code class="sourceCode r"><a class="sourceLine" id="cb15-1" data-line-number="1"><span class="kw">V</span>(g1)<span class="op">$</span>letter &lt;-<span class="st"> </span>letters[<span class="dv">1</span><span class="op">:</span><span class="kw">length</span>(<span class="kw">V</span>(g1))]</a>
+<div class="sourceCode" id="cb15"><pre class="sourceCode r"><code class="sourceCode r"><a class="sourceLine" id="cb15-1" data-line-number="1"><span class="kw">V</span>(g1)<span class="op">$</span>label &lt;-<span class="st"> </span>letters[<span class="dv">1</span><span class="op">:</span><span class="kw">length</span>(<span class="kw">V</span>(g1))]</a>
 <a class="sourceLine" id="cb15-2" data-line-number="2"><span class="co">#query attibutes</span></a>
 <a class="sourceLine" id="cb15-3" data-line-number="3"><span class="kw">vertex_attr</span>(g1)</a></code></pre></div>
 <pre><code>## $rooms
 ## [1] &quot;LR&quot;     &quot;FR&quot;     &quot;BR&quot;     &quot;DR&quot;     &quot;Garage&quot;
 ## 
-## $letter
+## $label
 ## [1] &quot;a&quot; &quot;b&quot; &quot;c&quot; &quot;d&quot; &quot;e&quot;</code></pre>
+<div class="sourceCode" id="cb17"><pre class="sourceCode r"><code class="sourceCode r"><a class="sourceLine" id="cb17-1" data-line-number="1"><span class="co">#set_vertex_attr(g1, name = &quot;size&quot;, value = seq(10, 50, by =10))</span></a>
+<a class="sourceLine" id="cb17-2" data-line-number="2"><span class="kw">V</span>(g1)<span class="op">$</span>size &lt;-<span class="st"> </span><span class="kw">seq</span>(<span class="dv">10</span>, <span class="dv">50</span>, <span class="dt">by =</span> <span class="dv">10</span>)</a>
+<a class="sourceLine" id="cb17-3" data-line-number="3"><span class="kw">plot</span>(g1)</a></code></pre></div>
+<p><img src="book_network_analysis_in_R_files/figure-html/add-vertices-attr-1.png" width="672" /></p>
 
 </div>
 </div>

diff --git a/docs/index.html b/docs/index.html
@@ -24,7 +24,7 @@
 <meta name="author" content="Robert Wiederstein" />
 
 
-<meta name="date" content="2021-01-01" />
+<meta name="date" content="2021-01-02" />
 
   <meta name="viewport" content="width=device-width, initial-scale=1" />
   <meta name="apple-mobile-web-app-capable" content="yes" />
@@ -232,7 +232,7 @@ code span.wa { color: #60a0b0; font-weight: bold; font-style: italic; } /* Warni
 <div id="header">
 <h1 class="title">Network Analysis in R</h1>
 <p class="author"><em>Robert Wiederstein</em></p>
-<p class="date"><em>2021-01-01</em></p>
+<p class="date"><em>2021-01-02</em></p>
 </div>
 <div id="preface" class="section level1 unnumbered">
 <h1>Preface</h1>
@@ -240,7 +240,6 @@ code span.wa { color: #60a0b0; font-weight: bold; font-style: italic; } /* Warni
 <h2><span class="header-section-number">0.1</span> Why Read this Book</h2>
 <p>Network analysis is a crucial strategy in understanding the direction and strength of connections between people, places and ideas. Visual representation of networks can speed the discovery process in working with data. It has a wide variety of applications and has been used to study social media like twitter, <span class="citation">(Grandjean <a href="#ref-grandjeanSocialNetworkAnalysis2016">2016</a>)</span>, dispersion of knowledge among inventors, <span class="citation">(Brennecke and Rank <a href="#ref-brenneckeFirmKnowledgeNetwork2017">2017</a>)</span> and the transmission of disease <span class="citation">(Emch et al. <a href="#ref-emchIntegrationSpatialSocial2012">2012</a>)</span> , to name just a few.</p>
 <p>The imagination of researchers to adopt social network analysis to new paradigms have left academic veterans reluctant to define its terms narrowly. <span class="citation">(Easley and Kleinberg <a href="#ref-easleyNetworksCrowdsMarkets2012">2012</a>)</span></p>
-<p>Graphs of these networks are referred to as “sociograms”</p>
 </div>
 <div id="purpose" class="section level2">
 <h2><span class="header-section-number">0.2</span> Purpose</h2>

diff --git a/docs/glossary.html b/docs/glossary.html
@@ -24,7 +24,7 @@
 <meta name="author" content="Robert Wiederstein" />
 
 
-<meta name="date" content="2021-01-01" />
+<meta name="date" content="2021-01-02" />
 
   <meta name="viewport" content="width=device-width, initial-scale=1" />
   <meta name="apple-mobile-web-app-capable" content="yes" />
@@ -236,11 +236,16 @@ code span.wa { color: #60a0b0; font-weight: bold; font-style: italic; } /* Warni
 <p><strong>Degree</strong> the number of nodes adjacent to the node under evaluation or the number of lines incident to it.</p>
 <p><strong>Diameter</strong> is the maximum number of edges.</p>
 <p><strong>Edges</strong> are ties, relations or connections between nodes. Edges are often designated as <span class="math inline">\(E\)</span>.</p>
+<p><strong>Empty graph</strong> is a graph with no vertices or edges.</p>
 <p><strong>Indegree</strong> is the number of received ties.</p>
+<p><strong>Loops</strong> are edges the starting point and the end point is the same node.</p>
+<p><strong>Neighborhood</strong> of a vertex v in a graph G is the set of vertices adjacent to v. The neighborhood is denoted N(v). The neighborhood does not include v itself.</p>
 <p><strong>Networks</strong></p>
 <p><strong>Network objects</strong> is a class of objects in R designed specifically for network analysis. They store an adjacency matrix or an edgelist as well as metadata.</p>
 <p><strong>Outdegree</strong> the number of sent ties.</p>
 <p><strong>Directed</strong> networks</p>
+<p><strong>Sociogram</strong> is a graph of a network.</p>
+<p><strong>Trival graph</strong> a graph with only one vertex and no edges.</p>
 
 </div>
 

diff --git a/docs/igraph.html b/docs/igraph.html
@@ -24,7 +24,7 @@
 <meta name="author" content="Robert Wiederstein" />
 
 
-<meta name="date" content="2021-01-01" />
+<meta name="date" content="2021-01-02" />
 
   <meta name="viewport" content="width=device-width, initial-scale=1" />
   <meta name="apple-mobile-web-app-capable" content="yes" />

diff --git a/docs/igraphdata-plots.html b/docs/igraphdata-plots.html
@@ -24,7 +24,7 @@
 <meta name="author" content="Robert Wiederstein" />
 
 
-<meta name="date" content="2021-01-01" />
+<meta name="date" content="2021-01-02" />
 
   <meta name="viewport" content="width=device-width, initial-scale=1" />
   <meta name="apple-mobile-web-app-capable" content="yes" />

diff --git a/docs/intro.html b/docs/intro.html
@@ -24,7 +24,7 @@
 <meta name="author" content="Robert Wiederstein" />
 
 
-<meta name="date" content="2021-01-01" />
+<meta name="date" content="2021-01-02" />
 
   <meta name="viewport" content="width=device-width, initial-scale=1" />
   <meta name="apple-mobile-web-app-capable" content="yes" />

diff --git a/docs/starwars.html b/docs/starwars.html
@@ -24,7 +24,7 @@
 <meta name="author" content="Robert Wiederstein" />
 
 
-<meta name="date" content="2021-01-01" />
+<meta name="date" content="2021-01-02" />
 
   <meta name="viewport" content="width=device-width, initial-scale=1" />
   <meta name="apple-mobile-web-app-capable" content="yes" />

diff --git a/docs/top-10-network-packages-in-r.html b/docs/top-10-network-packages-in-r.html
@@ -24,7 +24,7 @@
 <meta name="author" content="Robert Wiederstein" />
 
 
-<meta name="date" content="2021-01-01" />
+<meta name="date" content="2021-01-02" />
 
   <meta name="viewport" content="width=device-width, initial-scale=1" />
   <meta name="apple-mobile-web-app-capable" content="yes" />
